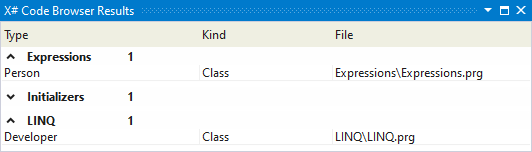
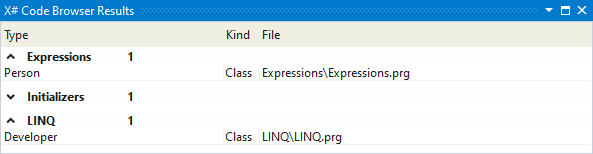
Bug fix and UI tweaks (#5)
* CodeBrowser search for variables bugfix

* Removed Project column, custom ToolTip for file column

* AddedSortArrow to ToolWindow DataGrid

* Enlarged Windows, clearing DataGrid when no results are found

* Updated Screenshots for documentation and changelog

* Updated readme

diff --git a/XSharpPowerTools/View/VsThemeDictionary.xaml b/XSharpPowerTools/View/VsThemeDictionary.xaml
@@ -1,7 +1,8 @@
 <ResourceDictionary xmlns="http://schemas.microsoft.com/winfx/2006/xaml/presentation"
                     xmlns:x="http://schemas.microsoft.com/winfx/2006/xaml"
                     xmlns:vsshell="clr-namespace:Microsoft.VisualStudio.PlatformUI;assembly=Microsoft.VisualStudio.Shell.15.0"
-                    xmlns:sys="clr-namespace:System;assembly=mscorlib">
+                    xmlns:sys="clr-namespace:System;assembly=mscorlib"
+                    xmlns:Themes="clr-namespace:Microsoft.Windows.Themes;assembly=PresentationFramework.Aero">
     <Style x:Key="GenericWindow" TargetType="{x:Type Window}">
         <Setter Property="Foreground" Value="{DynamicResource {x:Static vsshell:EnvironmentColors.ToolWindowTextBrushKey}}"/>
         <Setter Property="Background" Value="{DynamicResource {x:Static vsshell:EnvironmentColors.ToolWindowBackgroundBrushKey}}"/>
@@ -154,61 +155,111 @@
             </Trigger>
         </Style.Triggers>
     </Style>
+    <Style x:Key="ColumnElementStyle" TargetType="TextBlock">
+        <Setter Property="Margin" Value="1,0,7,0" />
+    </Style>
+    <Style x:Key="GenericDataGridCell" TargetType="{x:Type DataGridCell}">
+        <Setter Property="Foreground" Value="{DynamicResource {x:Static vsshell:EnvironmentColors.ComboBoxTextBrushKey}}"/>
+        <Setter Property="Background" Value="{DynamicResource {x:Static vsshell:EnvironmentColors.ComboBoxBackgroundBrushKey}}"/>
+        <Setter Property="BorderThickness" Value="0"/>
+        <Style.Triggers>
+            <Trigger Property="IsSelected" Value="True">
+                <Setter Property="Foreground" Value="{DynamicResource {x:Static vsshell:EnvironmentColors.TitleBarActiveTextBrushKey}}"/>
+                <Setter Property="Background" Value="{DynamicResource {x:Static vsshell:EnvironmentColors.ComboBoxSelectionBrushKey}}"/>
+            </Trigger>
+            <Trigger Property="IsSelected" Value="False">
+                <Setter Property="Background" Value="{DynamicResource {x:Static vsshell:EnvironmentColors.ComboBoxBackgroundBrushKey}}"/>
+                <Setter Property="Foreground" Value="{DynamicResource {x:Static vsshell:EnvironmentColors.ComboBoxTextBrushKey}}"/>
+            </Trigger>
+            <Trigger Property="IsEditing" Value="True">
+                <Setter Property="Template">
+                    <Setter.Value>
+                        <ControlTemplate TargetType="DataGridCell">
+                            <TextBox Text="{Binding RelativeSource={RelativeSource TemplatedParent}, Path=Content.Text, Mode=TwoWay, UpdateSourceTrigger=Default}" HorizontalAlignment="Stretch" VerticalAlignment="Stretch" Padding="0" BorderThickness="0" Background="{DynamicResource {x:Static vsshell:EnvironmentColors.ComboBoxBackgroundBrushKey}}" Foreground="{DynamicResource {x:Static vsshell:EnvironmentColors.ComboBoxTextBrushKey}}"/>
+                        </ControlTemplate>
+                    </Setter.Value>
+                </Setter>
+            </Trigger>
+        </Style.Triggers>
+    </Style>
+    <Style x:Key="ColumnHeaderGripperStyle" TargetType="{x:Type Thumb}">
+        <Setter Property="Width" Value="8"/>
+        <Setter Property="Background" Value="Transparent"/>
+        <Setter Property="Cursor" Value="SizeWE"/>
+        <Setter Property="Template">
+            <Setter.Value>
+                <ControlTemplate TargetType="{x:Type Thumb}">
+                    <Border Background="{TemplateBinding Background}" Padding="{TemplateBinding Padding}"/>
+                </ControlTemplate>
+            </Setter.Value>
+        </Setter>
+    </Style>
+    <Style x:Key="GenericDataGridColumnHeader" TargetType="{x:Type DataGridColumnHeader}">
+        <Setter Property="HorizontalAlignment" Value="Stretch" />
+        <Setter Property="HorizontalContentAlignment" Value="Left" />
+        <Setter Property="Height" Value="25"/>
+        <Setter Property="BorderBrush" Value="{DynamicResource {x:Static vsshell:EnvironmentColors.GridLineBrushKey}}"/>
+        <Setter Property="Foreground" Value="{DynamicResource {x:Static vsshell:EnvironmentColors.GridHeadingTextBrushKey}}"/>
+        <Setter Property="Background" Value="{DynamicResource {x:Static vsshell:EnvironmentColors.GridHeadingBackgroundBrushKey}}"/>
+        <Setter Property="Template">
+            <Setter.Value>
+                <ControlTemplate TargetType="{x:Type DataGridColumnHeader}">
+                    <Grid>
+                        <Themes:DataGridHeaderBorder BorderBrush="{TemplateBinding BorderBrush}" BorderThickness="{TemplateBinding BorderThickness}" Background="{TemplateBinding Background}" IsClickable="{TemplateBinding CanUserSort}" IsPressed="{TemplateBinding IsPressed}" IsHovered="{TemplateBinding IsMouseOver}" Padding="{TemplateBinding Padding}" SortDirection="{TemplateBinding SortDirection}" SeparatorBrush="{TemplateBinding SeparatorBrush}" SeparatorVisibility="{TemplateBinding SeparatorVisibility}">
+                            <Grid>
+                                <Grid.ColumnDefinitions>
+                                    <ColumnDefinition Width="Auto"/>
+                                    <ColumnDefinition Width="*"/>
+                                </Grid.ColumnDefinitions>
+                                <ContentPresenter Grid.Column="0" HorizontalAlignment="{TemplateBinding HorizontalContentAlignment}" SnapsToDevicePixels="{TemplateBinding SnapsToDevicePixels}" VerticalAlignment="{TemplateBinding VerticalContentAlignment}"/>
+                                <Path 
+                                    x:Name="SortArrow"
+                                    Grid.Column="1"
+                                    HorizontalAlignment="Right" VerticalAlignment="Center"                                           
+                                    Width="8" Height="6" Margin="2,0,5,0"
+                                    Stretch="Fill" Opacity="0.5" Fill="{DynamicResource {x:Static vsshell:EnvironmentColors.GridHeadingTextBrushKey}}"
+                                    RenderTransformOrigin="0.5,0.4"
+                                    Visibility="Collapsed"
+                                    Data="M0,0 L1,0 0.5,1 z" />
+                            </Grid>
+                        </Themes:DataGridHeaderBorder>
+                        <Thumb x:Name="PART_LeftHeaderGripper" HorizontalAlignment="Left" Style="{StaticResource ColumnHeaderGripperStyle}"/>
+                        <Thumb x:Name="PART_RightHeaderGripper" HorizontalAlignment="Right" Style="{StaticResource ColumnHeaderGripperStyle}"/>
+                    </Grid>
+                    <ControlTemplate.Triggers>
+                        <Trigger Property="SortDirection" Value="Ascending">
+                            <Setter TargetName="SortArrow" Property="Visibility" Value="Visible" />
+                            <Setter TargetName="SortArrow" Property="RenderTransform">
+                                <Setter.Value>
+                                    <RotateTransform Angle="180" />
+                                </Setter.Value>
+                            </Setter>
+                        </Trigger>
+                        <Trigger Property="SortDirection" Value="Descending">
+                            <Setter TargetName="SortArrow" Property="Visibility" Value="Visible" />
+                        </Trigger>
+                        <Trigger Property="SortDirection" Value="{x:Null}">
+                            <Setter TargetName="SortArrow" Property="Visibility" Value="Collapsed" />
+                        </Trigger>
+                    </ControlTemplate.Triggers>
+                </ControlTemplate>
+            </Setter.Value>
+        </Setter>
+    </Style>
+    <Style x:Key="GenericDataGridRow" TargetType="{x:Type DataGridRow}">
+        <Setter Property="ToolTip" Value="{Binding RelativeSource={RelativeSource Self},Path=Item.SourceCode}"/>
+        <Setter Property="ToolTipService.ShowDuration" Value="5000"/>
+        <Setter Property="ToolTipService.BetweenShowDelay" Value="1500"/>
+        <Setter Property="ToolTipService.InitialShowDelay" Value="1500"/>
+    </Style>
     <Style x:Key="GenericDataGrid" TargetType="{x:Type DataGrid}">
         <Setter Property="Background" Value="{DynamicResource {x:Static vsshell:EnvironmentColors.ComboBoxBackgroundBrushKey}}"/>
         <Setter Property="BorderBrush" Value="{DynamicResource {x:Static vsshell:EnvironmentColors.ComboBoxBorderBrushKey}}"/>
         <Setter Property="HorizontalGridLinesBrush" Value="{DynamicResource {x:Static vsshell:EnvironmentColors.GridLineBrushKey}}"/>
         <Setter Property="VerticalGridLinesBrush" Value="{DynamicResource {x:Static vsshell:EnvironmentColors.GridLineBrushKey}}"/>
-        <Setter Property="ColumnHeaderStyle">
-            <Setter.Value>
-                <Style TargetType="{x:Type DataGridColumnHeader}">
-                    <Setter Property="HorizontalAlignment" Value="Stretch" />
-                    <Setter Property="HorizontalContentAlignment" Value="Left" />
-                    <Setter Property="Height" Value="25"/>
-                    <Setter Property="BorderBrush" Value="{DynamicResource {x:Static vsshell:EnvironmentColors.GridLineBrushKey}}"/>
-                    <Setter Property="Foreground" Value="{DynamicResource {x:Static vsshell:EnvironmentColors.GridHeadingTextBrushKey}}"/>
-                    <Setter Property="Background" Value="{DynamicResource {x:Static vsshell:EnvironmentColors.GridHeadingBackgroundBrushKey}}"/>
-                </Style>
-            </Setter.Value>
-        </Setter>
-        <Setter Property="RowStyle">
-            <Setter.Value>
-                <Style TargetType="{x:Type DataGridRow}">
-                    <Setter Property="ToolTip" Value="{Binding RelativeSource={RelativeSource Self},Path=Item.SourceCode}"/>
-                    <Setter Property="ToolTipService.ShowDuration" Value="5000"/>
-                    <Setter Property="ToolTipService.BetweenShowDelay" Value="1500"/>
-                    <Setter Property="ToolTipService.InitialShowDelay" Value="1500"/>
-                </Style>
-            </Setter.Value>
-        </Setter>
-        <Setter Property="CellStyle">
-            <Setter.Value>
-                <Style TargetType="{x:Type DataGridCell}">
-                    <Setter Property="Foreground" Value="{DynamicResource {x:Static vsshell:EnvironmentColors.ComboBoxTextBrushKey}}"/>
-                    <Setter Property="Background" Value="{DynamicResource {x:Static vsshell:EnvironmentColors.ComboBoxBackgroundBrushKey}}"/>
-                    <Setter Property="BorderThickness" Value="0"/>
-                    <Style.Triggers>
-                        <Trigger Property="IsSelected" Value="True">
-                            <Setter Property="Foreground" Value="{DynamicResource {x:Static vsshell:EnvironmentColors.TitleBarActiveTextBrushKey}}"/>
-                            <Setter Property="Background" Value="{DynamicResource {x:Static vsshell:EnvironmentColors.ComboBoxSelectionBrushKey}}"/>
-                        </Trigger>
-                        <Trigger Property="IsSelected" Value="False">
-                            <Setter Property="Background" Value="{DynamicResource {x:Static vsshell:EnvironmentColors.ComboBoxBackgroundBrushKey}}"/>
-                            <Setter Property="Foreground" Value="{DynamicResource {x:Static vsshell:EnvironmentColors.ComboBoxTextBrushKey}}"/>
-                        </Trigger>
-                        <Trigger Property="IsEditing" Value="True">
-                            <Setter Property="Template">
-                                <Setter.Value>
-                                    <ControlTemplate TargetType="DataGridCell">
-                                        <TextBox Text="{Binding RelativeSource={RelativeSource TemplatedParent}, Path=Content.Text, Mode=TwoWay, UpdateSourceTrigger=Default}" HorizontalAlignment="Stretch" VerticalAlignment="Stretch" Padding="0" BorderThickness="0" Background="{DynamicResource {x:Static vsshell:EnvironmentColors.ComboBoxBackgroundBrushKey}}" Foreground="{DynamicResource {x:Static vsshell:EnvironmentColors.ComboBoxTextBrushKey}}"/>
-                                    </ControlTemplate>
-                                </Setter.Value>
-                            </Setter>
-                        </Trigger>
-                    </Style.Triggers>
-                </Style>
-            </Setter.Value>
-        </Setter>
+        <Setter Property="ColumnHeaderStyle" Value="{StaticResource GenericDataGridColumnHeader}"/>
+        <Setter Property="RowStyle" Value="{StaticResource GenericDataGridRow}"/>
+        <Setter Property="CellStyle" Value="{StaticResource GenericDataGridCell}"/>
     </Style>
     <Style x:Key="GenericButton" TargetType="{x:Type Button}">
         <Setter Property="Foreground" Value="{DynamicResource {x:Static vsshell:EnvironmentColors.ButtonTextBrushKey}}"/>

diff --git a/XSharpPowerTools/View/Windows/CodeBrowserWindow.xaml b/XSharpPowerTools/View/Windows/CodeBrowserWindow.xaml
@@ -70,7 +70,7 @@
             </Grid.RowDefinitions>
             <Grid.ColumnDefinitions>
                 <ColumnDefinition Width="5" />
-                <ColumnDefinition Width="490"/>
+                <ColumnDefinition Width="540"/>
                 <ColumnDefinition Width="5"/>
                 <ColumnDefinition Width="20"/>
                 <ColumnDefinition Width="5"/>
@@ -119,7 +119,7 @@
                 TabIndex="2"
                 FontWeight="ExtraBold"
                 Style="{StaticResource GenericButton}"
-                ToolTip="Save results to seperate view"
+                ToolTip="Save results to seperate view (Ctrl + Return)"
                 FontFamily="Segoe MDL2 Assets"
                 Content="&#xE094;"/>
             <controls:HelpTextControl
@@ -139,24 +139,31 @@
                 <DataGrid.Columns>
                     <DataGridTextColumn
                         Header=" Member"
-                        Width="3*"
+                        Width="2*"
                         Binding="{Binding MemberName}"/>
                     <DataGridTextColumn
                         Header=" Type"
-                        Width="3*"
+                        Width="2*"
                         Binding="{Binding TypeName}"/>
                     <DataGridTextColumn
                         Header=" Kind"
-                        Width="2*"
-                        Binding="{Binding KindName}"/>
-                    <DataGridTextColumn
-                        Header=" Project"
-                        Width="2*"
-                        Binding="{Binding Project}"/>
+                        Width="SizeToCells"
+                        Binding="{Binding KindName}"
+                        ElementStyle="{StaticResource ResourceKey=ColumnElementStyle}"
+                        CanUserResize="False"/>
                     <DataGridTextColumn
                         Header=" File"
                         Width="3*"
-                        Binding="{Binding RelativePath}"/>
+                        Binding="{Binding RelativePath}">
+                        <DataGridTextColumn.CellStyle>
+                            <Style TargetType="DataGridCell" BasedOn="{StaticResource ResourceKey=GenericDataGridCell}">
+                                <Setter Property="ToolTip" Value="{Binding RelativeSource={RelativeSource Self},Path=Content.Text}"/>
+                                <Setter Property="ToolTipService.ShowDuration" Value="5000"/>
+                                <Setter Property="ToolTipService.BetweenShowDelay" Value="1500"/>
+                                <Setter Property="ToolTipService.InitialShowDelay" Value="1500"/>
+                            </Style>
+                        </DataGridTextColumn.CellStyle>
+                    </DataGridTextColumn>
                 </DataGrid.Columns>
             </controls:ResultsDataGrid>
         </Grid>

diff --git a/XSharpPowerTools/View/Controls/ToolWindowControl.xaml b/XSharpPowerTools/View/Controls/ToolWindowControl.xaml
@@ -19,23 +19,37 @@
             CanUserSortColumns="True"
             MaxHeight="Infinity"
             ItemsSource="{Binding Source={StaticResource CvsResults}}">
+            <DataGrid.Resources>
+                <ResourceDictionary Source="../VsThemeDictionary.xaml"/>
+            </DataGrid.Resources>
             <DataGrid.Columns>
                 <DataGridTextColumn
                         Header=" Member"
-                        Width="3*"
+                        Width="2*"
                         Binding="{Binding MemberName}"/>
                 <DataGridTextColumn
                         Header=" Type"
-                        Width="3*"
+                        Width="2*"
                         Binding="{Binding TypeName}"/>
                 <DataGridTextColumn
                         Header=" Kind"
-                        Width="2*"
-                        Binding="{Binding KindName}"/>
+                        Width="SizeToCells"
+                        Binding="{Binding KindName}"
+                        ElementStyle="{StaticResource ResourceKey=ColumnElementStyle}"
+                        CanUserResize="False"/>
                 <DataGridTextColumn
                         Header=" File"
                         Width="3*"
-                        Binding="{Binding RelativePath}"/>
+                        Binding="{Binding RelativePath}">
+                    <DataGridTextColumn.CellStyle>
+                        <Style TargetType="DataGridCell" BasedOn="{StaticResource ResourceKey=GenericDataGridCell}">
+                            <Setter Property="ToolTip" Value="{Binding RelativeSource={RelativeSource Self},Path=Content.Text}"/>
+                            <Setter Property="ToolTipService.ShowDuration" Value="5000"/>
+                            <Setter Property="ToolTipService.BetweenShowDelay" Value="1500"/>
+                            <Setter Property="ToolTipService.InitialShowDelay" Value="1500"/>
+                        </Style>
+                    </DataGridTextColumn.CellStyle>
+                </DataGridTextColumn>
             </DataGrid.Columns>
         </local:ResultsDataGrid>
     </Grid>

diff --git a/XSharpPowerTools/View/Controls/ResultsDataGrid.xaml b/XSharpPowerTools/View/Controls/ResultsDataGrid.xaml
@@ -31,6 +31,12 @@
         </Style>
     </DataGrid.Style>
 
+    <DataGrid.RowStyle>
+        <Style TargetType="{x:Type DataGridRow}" BasedOn="{StaticResource ResourceKey=GenericDataGridRow}">
+            <EventSetter Event="MouseDoubleClick" Handler="ResultsDataGrid_MouseDoubleClick"/>
+        </Style>
+    </DataGrid.RowStyle>
+    
     <DataGrid.GroupStyle>
         <GroupStyle>
             <GroupStyle.ContainerStyle>

diff --git a/XSharpPowerTools/View/Windows/FindNamespaceWindow.xaml b/XSharpPowerTools/View/Windows/FindNamespaceWindow.xaml
@@ -68,7 +68,7 @@
             </Grid.RowDefinitions>
             <Grid.ColumnDefinitions>
                 <ColumnDefinition Width="5" />
-                <ColumnDefinition Width="490"/>
+                <ColumnDefinition Width="540"/>
                 <ColumnDefinition Width="5" />
             </Grid.ColumnDefinitions>
             <Label

diff --git a/XSharpPowerTools/XSModel.cs b/XSharpPowerTools/XSModel.cs
@@ -135,7 +135,7 @@ namespace XSharpPowerTools
                 				         WHERE Kind = 1
                 				         AND LOWER(Sourcecode) LIKE '%class%'
                                          AND LOWER(TRIM(FileName))=$fileName)
-                        AND (Kind = 5 OR Kind = 6 OR Kind = 7 OR Kind = 8)
+                        AND (Kind = 5 OR Kind = 6 OR Kind = 7 OR Kind = 8 OR Kind = 11)
                         AND LOWER(Name) LIKE $memberName  ESCAPE '\'
                         ORDER BY LENGTH(TRIM(Name)), TRIM(Name)
                         LIMIT 100
@@ -221,7 +221,7 @@ namespace XSharpPowerTools
                     @"
                         SELECT Name, FileName, StartLine, TypeName, ProjectFileName, Kind, Sourcecode
                         FROM ProjectMembers 
-                        WHERE (Kind = 5 OR Kind = 6 OR Kind = 7 OR Kind = 8)
+                        WHERE (Kind = 5 OR Kind = 6 OR Kind = 7 OR Kind = 8 OR Kind = 11)
                         AND LOWER(TRIM(Name)) LIKE $memberName ESCAPE '\'
                     ";
                     command.Parameters.AddWithValue("$memberName", memberName.Trim().ToLower());

diff --git a/XSharpPowerTools/View/Windows/CodeBrowserWindow.xaml.cs b/XSharpPowerTools/View/Windows/CodeBrowserWindow.xaml.cs
@@ -52,14 +52,10 @@ namespace XSharpPowerTools.View.Windows
 
             System.Windows.Forms.Cursor.Current = System.Windows.Forms.Cursors.WaitCursor;
 
-            var currentFile = searchTerm.Trim().StartsWith("..") || searchTerm.Trim().StartsWith("::") ? await DocumentHelper.GetCurrentFileAsync() : null;
+            var currentFile = searchTerm.Trim().StartsWith("..") || searchTerm.Trim().StartsWith("::") 
+                ? await DocumentHelper.GetCurrentFileAsync() 
+                : null;
             var (results, resultType) = await XSModel.GetSearchTermMatchesAsync(searchTerm, SolutionDirectory, currentFile);
-
-            if (results == null || results.Count < 1)
-            {
-                System.Windows.Forms.Cursor.Current = System.Windows.Forms.Cursors.Default;
-                return;
-            }
 
             ResultsDataGrid.ItemsSource = results;
             ResultsDataGrid.SelectedItem = results.FirstOrDefault();

diff --git a/XSharpPowerTools/View/Controls/ResultsDataGrid.xaml.cs b/XSharpPowerTools/View/Controls/ResultsDataGrid.xaml.cs
@@ -9,14 +9,11 @@ namespace XSharpPowerTools.View.Controls
     {
         public new IResultsDataGridParent Parent { private get; set; }
 
-        public ResultsDataGrid()
-        {
+        public ResultsDataGrid() =>
             InitializeComponent();
-            MouseDoubleClick += ResultsDataGrid_MouseDoubleClick;
-        }
 
         protected void ResultsDataGrid_MouseDoubleClick(object sender, System.Windows.Input.MouseButtonEventArgs e) => 
-            Parent?.OnReturn(SelectedItem);
+            Parent?.OnReturn((sender as DataGridRow).Item);
 
         public void SelectNext()
         {

diff --git a/XSharpPowerTools/source.extension.cs b/XSharpPowerTools/source.extension.cs
@@ -11,7 +11,7 @@ namespace XSharpPowerTools
         public const string Name = "XSharpPowerTools";
         public const string Description = @"A set of tools for XSharp Developers";
         public const string Language = "en-US";
-        public const string Version = "1.0";
+        public const string Version = "1.1";
         public const string Author = "Infominds Ag";
         public const string Tags = "";
     }

diff --git a/XSharpPowerTools/View/Windows/FindNamespaceWindow.xaml.cs b/XSharpPowerTools/View/Windows/FindNamespaceWindow.xaml.cs
@@ -40,7 +40,6 @@ namespace XSharpPowerTools.View.Windows
 
             System.Windows.Forms.Cursor.Current = System.Windows.Forms.Cursors.WaitCursor;
 
-
             var results = await XSModel.GetContainingNamespaceAsync(searchTerm.Trim());
             ResultsDataGrid.ItemsSource = results;
             ResultsDataGrid.SelectedItem = results.FirstOrDefault();

diff --git a/README.md b/README.md
@@ -4,10 +4,20 @@
 
 A set of tools for [X#](https://www.xsharp.eu) developers
 
+## Getting started
+
+Get the extension on the [Visual Studio Marketplace](https://marketplace.visualstudio.com/items?itemName=InfomindsAG.XSharpPowerTools).
+Installation requires a minimum Visual Studio Version of 16.10.4 and a minimum X# Version of 2.7.
+
 ## Features
 
 - Code Browser
 - Find and insert Namespaces
+
+The tools can be found under **Tools>X# Power Tools** or in the editors context menu.
+
+![Font Options](Images/ToolsMenu.PNG)
+![Font Options](Images/ContextMenu.PNG)
 
 There are no default shortcuts assigned, but you can easily assign shortcuts  yourself by following this [tutorial](https://docs.microsoft.com/en-us/visualstudio/ide/identifying-and-customizing-keyboard-shortcuts-in-visual-studio?view=vs-2019)
 

diff --git a/CHANGELOG.md b/CHANGELOG.md
@@ -1,5 +1,9 @@
 # Change log
 
+## 1.1
+
+- Bug fixes and minor adjustments
+
 ## 1.0
 
 - Code Browser
